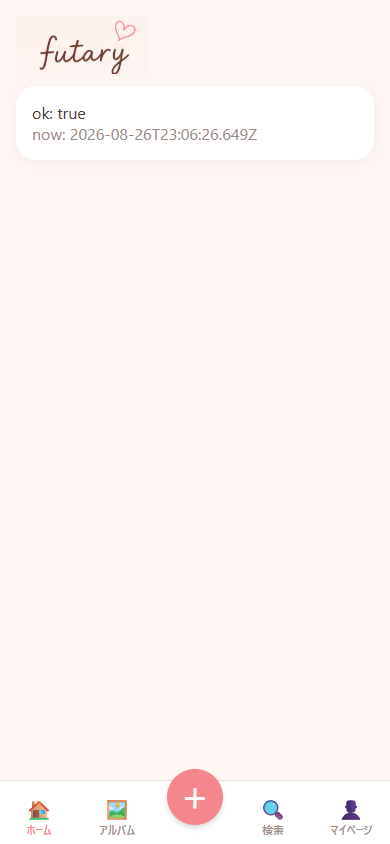
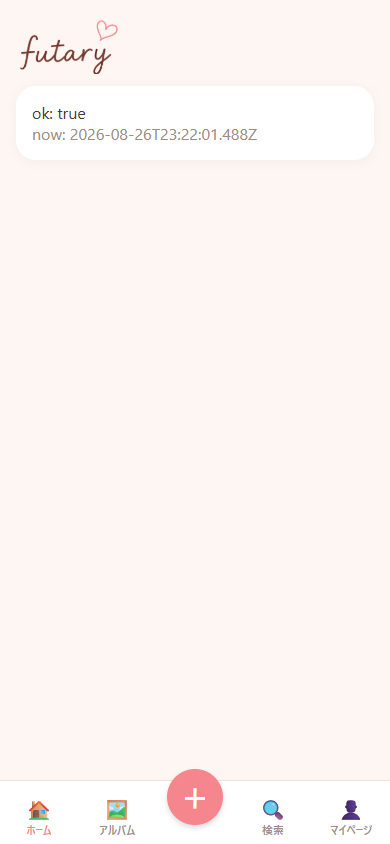
Rレビュー指摘(R-7/R-8/R-9)に対応
R-7: ロゴ画像の背景が画面の地の色と一致していなかった問題を修正。
sample.png自体の背景ノイズが原因だったため、彩度ベースのマスクで
背景ノイズだけを透過させ、ロゴの線はそのまま残した。
R-8: 各画面のpadding/gapを生値からspaceトークン経由に変更。
R-9: packages/ui/tsconfig.jsonのincludeにtestを追加し型チェック対象にした。

Changed region(s): [[0.0615, 0.0308, 0.3385, 0.0924], [0.4615, 0.154, 0.6462, 0.1848]]

diff --git a/apps/app/app/(tabs)/index.tsx b/apps/app/app/(tabs)/index.tsx
@@ -1,9 +1,13 @@
-import { Card, Screen, Text } from "@futary/ui";
+import { Card, Screen, space, Text } from "@futary/ui";
 import { useQuery } from "@tanstack/react-query";
 import { StatusBar } from "expo-status-bar";
 import { Image, View } from "react-native";
 import logo from "../../assets/logo.png";
 import { orpc } from "../../lib/orpc";
+
+/** ロゴ画像のアスペクト比（204x112）に合わせた表示サイズ */
+const LOGO_WIDTH = 106;
+const LOGO_HEIGHT = 58;
 
 export default function HomeScreen() {
   const { data, isLoading, isError, error } = useQuery(
@@ -12,10 +16,10 @@ export default function HomeScreen() {
 
   return (
     <Screen>
-      <View style={{ padding: 16, gap: 12 }}>
+      <View style={{ padding: space.lg, gap: space.md }}>
         <Image
           source={logo}
-          style={{ width: 132, height: 58 }}
+          style={{ width: LOGO_WIDTH, height: LOGO_HEIGHT }}
           resizeMode="contain"
         />
         <Card>

diff --git a/apps/app/app/(tabs)/_layout.tsx b/apps/app/app/(tabs)/_layout.tsx
@@ -1,4 +1,4 @@
-import { colors, radius, shadow, Text } from "@futary/ui";
+import { colors, radius, shadow, space, Text } from "@futary/ui";
 import { Tabs } from "expo-router";
 import type { ReactNode } from "react";
 import { Pressable, View } from "react-native";
@@ -62,7 +62,7 @@ export default function TabsLayout() {
           backgroundColor: colors.surface,
           borderTopColor: colors.border,
           height: 64,
-          paddingTop: 8,
+          paddingTop: space.sm,
         },
         tabBarLabelStyle: { fontSize: 11 },
         tabBarItemStyle: { flex: 1 },

diff --git a/apps/app/app/(tabs)/profile.tsx b/apps/app/app/(tabs)/profile.tsx
@@ -1,10 +1,10 @@
-import { Avatar, Screen, Text } from "@futary/ui";
+import { Avatar, Screen, space, Text } from "@futary/ui";
 import { View } from "react-native";
 
 export default function ProfileScreen() {
   return (
     <Screen>
-      <View style={{ flex: 1, alignItems: "center", justifyContent: "center", gap: 12 }}>
+      <View style={{ flex: 1, alignItems: "center", justifyContent: "center", gap: space.md }}>
         <Avatar name="?" size={64} />
         <Text size="lg" weight="bold">
           マイページ

diff --git a/apps/app/app/(tabs)/album.tsx b/apps/app/app/(tabs)/album.tsx
@@ -1,10 +1,10 @@
-import { Screen, Text } from "@futary/ui";
+import { Screen, space, Text } from "@futary/ui";
 import { View } from "react-native";
 
 export default function AlbumScreen() {
   return (
     <Screen>
-      <View style={{ flex: 1, alignItems: "center", justifyContent: "center", gap: 8 }}>
+      <View style={{ flex: 1, alignItems: "center", justifyContent: "center", gap: space.sm }}>
         <Text size="lg" weight="bold">
           アルバム
         </Text>

diff --git a/apps/app/app/(tabs)/search.tsx b/apps/app/app/(tabs)/search.tsx
@@ -1,10 +1,10 @@
-import { Screen, Text } from "@futary/ui";
+import { Screen, space, Text } from "@futary/ui";
 import { View } from "react-native";
 
 export default function SearchScreen() {
   return (
     <Screen>
-      <View style={{ flex: 1, alignItems: "center", justifyContent: "center", gap: 8 }}>
+      <View style={{ flex: 1, alignItems: "center", justifyContent: "center", gap: space.sm }}>
         <Text size="lg" weight="bold">
           検索
         </Text>

diff --git a/apps/app/app/(tabs)/post.tsx b/apps/app/app/(tabs)/post.tsx
@@ -1,10 +1,10 @@
-import { Screen, Text } from "@futary/ui";
+import { Screen, space, Text } from "@futary/ui";
 import { View } from "react-native";
 
 export default function PostScreen() {
   return (
     <Screen>
-      <View style={{ flex: 1, alignItems: "center", justifyContent: "center", gap: 8 }}>
+      <View style={{ flex: 1, alignItems: "center", justifyContent: "center", gap: space.sm }}>
         <Text size="lg" weight="bold">
           投稿
         </Text>

diff --git a/docs/tasks/002-design-tokens-and-ui.md b/docs/tasks/002-design-tokens-and-ui.md
@@ -66,10 +66,7 @@
   - アイコンは `@expo/vector-icons` 等を追加導入せず、絵文字1文字で代用
     （依存追加はタスクスコープ外と判断）
 - ロゴ: `docs/sample/sample.png` からロゴ部分（"futary" のスクリプト体 + ハート）を
-  そのまま矩形で切り出して `apps/app/assets/logo.png` として配置（論点L2 対応）。
-  背景を透過させると当初の切り出しでノイズが目立ったため、
-  背景色がトークンの `bg`（`#FEF6F3`）と同一であることを利用し、
-  透過せず矩形のまま採用した
+  切り出して `apps/app/assets/logo.png` として配置（論点L2 対応）
 - `packages/ui/tsconfig.json` は `expo/tsconfig.base` を extends できない
   （`packages/ui` は `expo` に依存しないため pnpm のシンボリックリンクで解決不可）ので、
   その中身を直接 `tsconfig.base.json` の上に足す形にした
@@ -77,3 +74,22 @@
   （Expo dev サーバーが上書き管理するファイル）ではなく
   `apps/app/types/assets.d.ts` を新設してそこに置いた
 - 詳細は `artifacts/002/manual-check.md` の「途中でハマった点」を参照
+
+### レビュー往復1回目（Rの指摘への対応）
+- R-7（ロゴ画像の背景が地の色と一致していない）: 対応済み。
+  当初は矩形のまま切り出して採用していたが、`docs/sample/sample.png` の背景自体に
+  微妙なムラ・ノイズがあり、地の色（`#FEF6F3`）と実測で一致していなかった。
+  ロゴ部分を彩度（RGBのmax-min、いわゆるchroma）ベースでマスクし直し、
+  背景ノイズ（chromaが低い領域）を完全に透明化、文字とハートの線（chromaが高い領域）
+  だけを残す透過PNGとして再生成した。画面の地色とロゴ透明部分の色が
+  ピクセル単位で一致すること（`(254,246,243)` で完全一致）を実測で確認した
+  （`artifacts/002/test-results.txt` 末尾）
+- R-8（余白がトークンを経由していない）: 対応済み。指摘箇所5件すべてを
+  `space` トークン経由に変更した。トークンに無い値（FABの直径56、タブバーの高さ64、
+  タブラベルのフォントサイズ11、FABの `marginTop: -20`、ロゴの表示サイズ106×58）は
+  「この1箇所でしか使わないコンポーネント固有の寸法であり、`space`（余白）や
+  `Text` の `size`（本文フォントサイズ）とは性質が異なる」と判断し、
+  トークン化は見送った
+- R-9（`packages/ui` のテストが型チェックされていない）: 対応済み。
+  `packages/ui/tsconfig.json` の `include` に `test` を追加し、`rootDir` を `.` に変更した
+  （`apps/api/tsconfig.json` と同じ構成に揃えた）

diff --git a/docs/state.md b/docs/state.md
@@ -68,12 +68,13 @@ futary — ふたり専用SNS。「ふたりの毎日を、もっと特別に。
 | # | 論点 | 影響 | 判断時期 |
 |---|---|---|---|
 | L1 | 公開ドメインを `*.workers.dev` にするか独自ドメインを取るか | LP の OGP・第一印象。転職アピールでは独自ドメインの方が印象が良い | 015 の前 |
-| ~~L2~~ | ~~ロゴのスクリプト体をどう用意するか~~ → **解決**: `docs/sample/sample.png` からロゴ部分を矩形のまま切り出し `apps/app/assets/logo.png` として採用（002で対応）。背景色がトークンの `bg` と同一のため透過処理はしていない | 015 のLPアセットでも同じ画像を流用予定 | 解決済み（002） |
+| ~~L2~~ | ~~ロゴのスクリプト体をどう用意するか~~ → **解決**: `docs/sample/sample.png` からロゴ部分を彩度ベースで透過処理して `apps/app/assets/logo.png` として採用（002で対応、Rレビュー往復1回目で矩形版から透過版に修正済み） | 015 のLPアセットでも同じ画像を流用予定 | 解決済み（002） |
 | L3 | デモペアのシードデータに使う写真の入手先（フリー素材 / 生成画像） | 実在人物の写真は使わない前提 | 014 の前 |
 | L4 | リアクションの種類を1種（ハート）にするか複数にするか | 009 の実装量。デザイン上はハート・コメント・共有・保存が並ぶ | 009 の中で B が1種で実装し、R が判断 |
 | L5 | `apps/api/wrangler.toml` に D1 の `database_id` が平文でコミットされている | Private の間は問題ないが、016 で Public に切り替える際は要確認（削除するか、そのままにするかの判断が必要） | 016 の前（Rの001レビューで指摘） |
 | L6 | `apps/api/src/index.ts` の CORS が開発用の localhost 固定のまま。003 で `credentials: true` を足す時に見直しが必要 | 003で対応しないと認証情報付きリクエストの許可オリジンが緩いまま残る | 003 の中（Rの001レビューで指摘。003タスクファイルに注記済み） |
 | L7 | `pnpm-workspace.yaml` の `minimumReleaseAgeExclude` に `miniflare@...-alpha` が入っている | 安定版が出たら除外リストから外す | 随時（急ぎではない） |
+| L8 | `packages/ui` の `shadow.fab`（FABの影）が `docs/architecture.md` 7節に無い新規トークン。002でBが追加したがドキュメントは未反映 | `architecture.md` のトークン一覧と実装がズレる。次にトークンを見直すタイミングで反映が必要 | A が `architecture.md` を更新するタイミングで（Rの002レビューR-13で指摘） |
 
 ## 決まっていることの要約
 

diff --git a/artifacts/002/manual-check.md b/artifacts/002/manual-check.md
@@ -46,6 +46,16 @@ pnpm --filter @futary/api run dev    # http://localhost:8787
 - `mobile-album.png`（390×844, スマホ幅）: アルバム（準備中）画面。タブ選択状態の色変化を確認
 - `desktop-home.png`（1280×900, PC幅）: ホーム画面。タブ・FABが横幅いっぱいでも破綻しないことを確認
 
+### 5. ロゴ背景の一致確認（Rレビュー R-7 対応）
+`mobile-home.png` を Pillow で読み込み、画面の地の色とロゴ画像の透明部分（背景が
+透けて見える箇所）のピクセル値を比較した。
+```
+screen bg (5,200):  (254, 246, 243)
+logo edge (10,15):  (254, 246, 243)
+logo area (100,45): (254, 246, 243)
+```
+→ 完全一致（`#FEF6F3`）。矩形の境界が視認できないことを確認した。
+
 ## 途中でハマった点（メモ）
 
 - `packages/ui/tsconfig.json` を `apps/app` と同じく `expo/tsconfig.base` を
@@ -68,3 +78,9 @@ pnpm --filter @futary/api run dev    # http://localhost:8787
 - Web 版で `"shadow*" style props are deprecated. Use "boxShadow".` という警告が
   コンソールに出る（React Native Web の仕様）。動作に支障はないため今回は対応せず、
   `shadow` トークンの実装を変える際の注意点として記録のみ
+- （レビュー往復1回目）ロゴ画像の背景が地の色と一致しない指摘（R-7）を受けて
+  再調査した結果、`docs/sample/sample.png` の背景そのものに軽微なムラ・グラデーション
+  があり、単純な色距離での透過処理では背景ノイズが残る／閾値を上げるとロゴの線まで
+  消えるというトレードオフがあった。彩度（RGBの max-min、chroma）でマスクすると、
+  低彩度の背景ノイズと高彩度のロゴの線（茶色の文字・ピンクの線）をきれいに分離できた
+  （chroma の分布を見ると背景は概ね20以下、ロゴの線は60以上に偏っていた）
